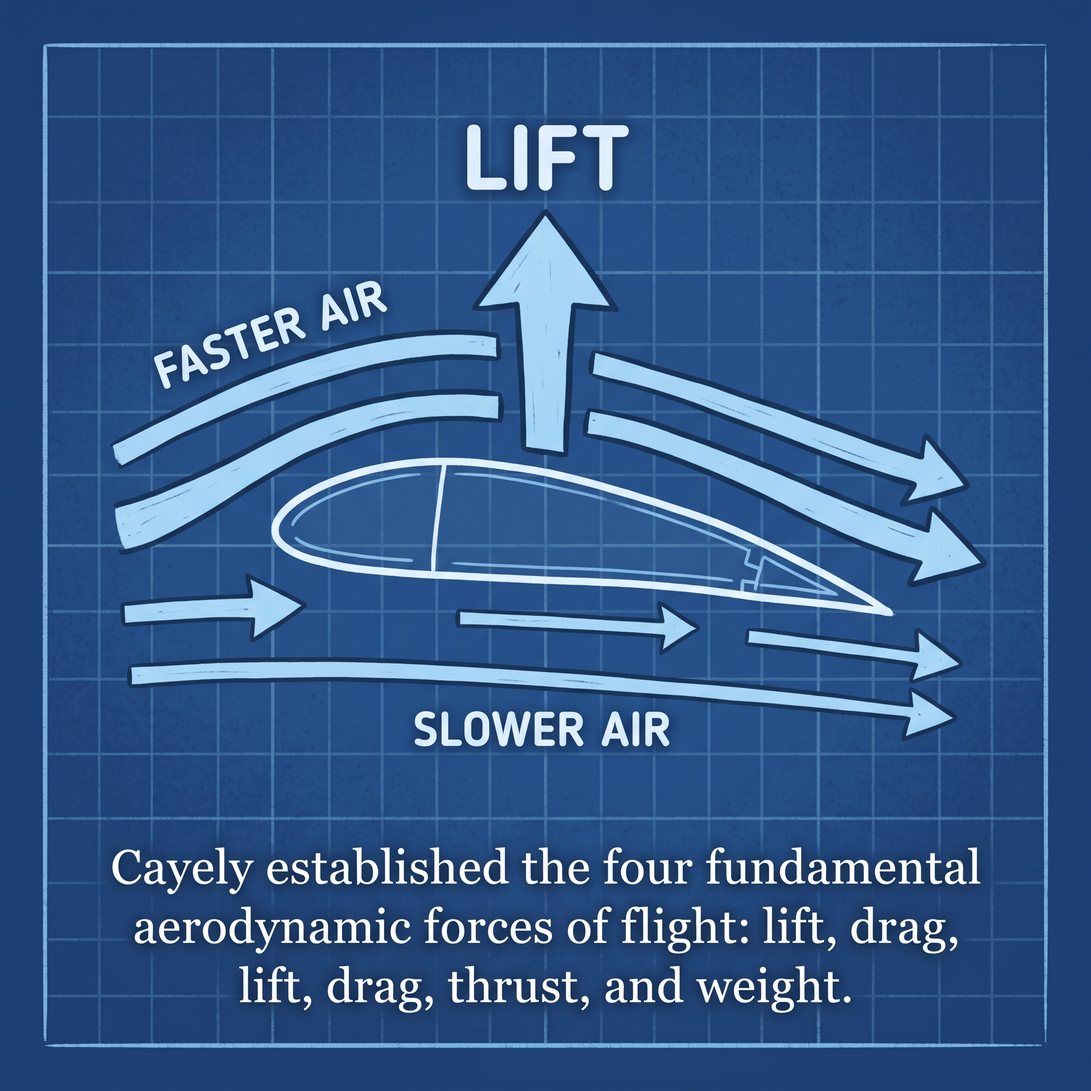
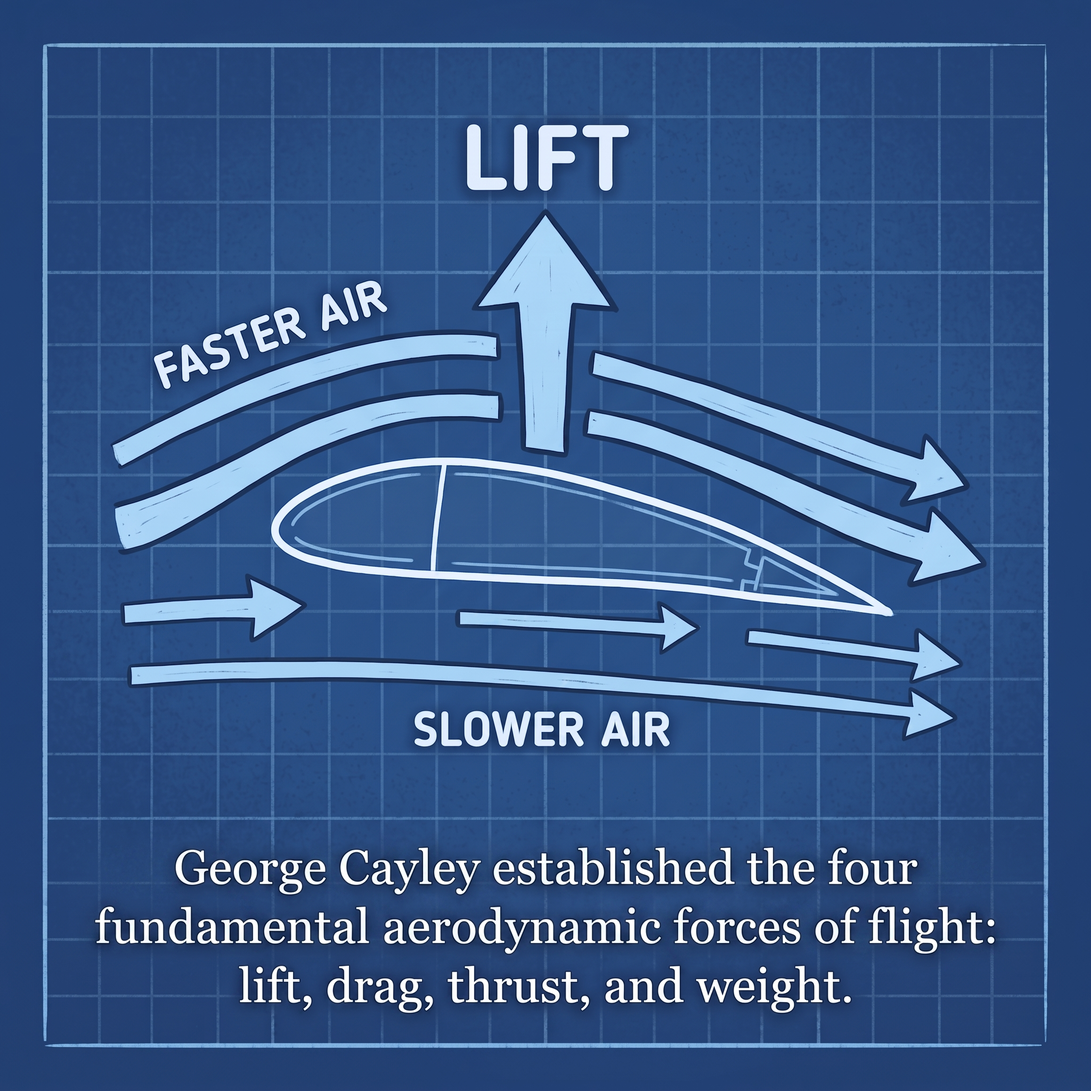
typo cleanup

Changed region(s): [[0.0625, 0.7812, 0.9375, 0.875], [0.25, 0.2812, 0.2812, 0.3125]]

diff --git a/3 - Fixed Wing/X-15.md b/3 - Fixed Wing/X-15.md
@@ -1,0 +1,17 @@
+# X-15
+
+This is a page in a children's book.  The aspect ratio should be 1:1.  There should be an image with the text overlaid.
+
+## Text
+
+The X-15 was extremely fast.  On a flight in 1967, it reached Mach 6.70.  It flew to an altitude of 354,200ft.
+
+Like the X-1, the X-15 was launched from another plane.  In this case a B-52 was used.  Today an X-15 hangs in the Smithsonian Air and Space Museum in Washington DC.
+
+## Image
+
+The image should be of the X-15.  Use the sample image for guidance.
+
+# Style
+
+The image should be photorealistic

diff --git a/3 - Fixed Wing/X-1.md b/3 - Fixed Wing/X-1.md
@@ -1,0 +1,17 @@
+# X-1
+
+This is a page in a children's book.  The aspect ratio should be 1:1.  There should be an image with the text overlaid.
+
+## Text
+
+In 1947, Chuck Yeager became the first person to break the sound barrier.
+
+The Bell X-1 was dropped from the bay of a B-29 Superfortress.  In the first flight, Yeager piloted it to Mach 1.06.
+
+## Image
+
+The image should be of the X-1.  Use the sample image for guidance.
+
+# Style
+
+The image should be photorealistic

diff --git a/3 - Fixed Wing/03 - Wright Flyer.md b/3 - Fixed Wing/03 - Wright Flyer.md
@@ -6,7 +6,7 @@ This is a page in a children's book.  The aspect ratio should be 1:1.  There sho
 
 The Wright brothers designed, built and flew the first airplane.  In 1903, the Wright Flyer flew 120ft in 12 seconds.
 
-The plane was made of wood, piano wire and muslin wings.  A four cylinder gasoline engine provider 4 horsepower.
+The plane was made of wood, piano wire and muslin wings.  A four cylinder gasoline engine provided 4 horsepower.
 
 ## Image
 

diff --git a/3 - Fixed Wing/README.md b/3 - Fixed Wing/README.md
@@ -1,10 +1,13 @@
 # Fixed Wing
 
-* Wright Flyer
-* DC-10
-* X-1
-* X-15
+* F-4
 * F-14
+* F-15
+* F-16
+* F-22
+* F-35
+
+* DC-10
 * 747
-* Around the world
+* Voyager
 * Concord
